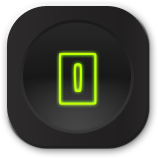
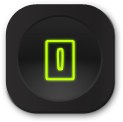
resize image & change blahblahblah

diff --git a/view/index.html b/view/index.html
@@ -14,22 +14,22 @@
   }
 
   #ball{
-    width: 214px;
-    height: 214px;
-    margin: -107px;
+    width: 164px;
+    height: 164px;
+    margin: -82px;
     background: transparent;
     left: 50%; top: 50%;
     position: absolute;
   }
 
   #stick{
-    width: 45px;   
+    width: 35px;   
     border-top: 0;
     -webkit-transform-origin: 50% 100%;
     height: 0;
     position:absolute;
     bottom: 50%;
-    left: 256.5px ; /* (558-45)/2 */
+    left: 197px ; /* (429-35)/2 */
   }
   #stick .colored{
     width: 100%;
@@ -38,49 +38,49 @@
   }
 
   #stick-slot{
-    left: 382px; top: 52px;
-    width: 558px;
-    height: 558px;
+    left: 310px; top: 38px;
+    width: 429px;
+    height: 429px;
     background: url(images/panel.png);
     position: absolute;
   }
 
   #zoom-slot{
-    width: 158px;
-    height: 558px;
-    left: 130px; top: 52px;
+    width: 122px;
+    height: 428px;
+    left: 120px; top: 38px;
     background: url(images/zoom-bg.png);
     position: absolute;
-
   }
 
   #zoom-slot>div{
     margin: 50px 0;
-    height: 450px;
+    height: 350px;
     position:relative;
   }
-  
+
+
   #zoom-slot .ui-slider-handle{
     display:block;
     position: absolute;
     left: 50%;
-    margin-left: -40px;
-    width: 80px;
-    height: 139px;
-    margin-bottom: -70px;
+    margin-left: -30.5px;
+    width: 61px;
+    height: 106px;
+    margin-bottom: -53px;
     background: url(images/zoom-handle.png);
   }
   
   #presets{
     position:absolute;
-    left: 1016px;
-    top: 52px;
-    width: 158px;
-    height: 558px;
+    left: 801px;
+    top: 38px;
+    width: 123px;
+    height: 429px;
   }
   
   .button1, .button2, .button3{
-    width: 158px; height: 158px;
+    width: 123px; height: 122px;
     position: absolute;
   }
   
@@ -94,7 +94,7 @@
   
   .button2{
     background: url('images/button2.png');
-    top: 50%; margin-top: -79px;
+    top: 50%; margin-top: -61px;
   }
   
   .button2:hover{
@@ -111,22 +111,39 @@
 
   #hsl{
     position:absolute;
-    left: 80px;
-    top: 760px;
-    width: 1130px;
-    height: 155px;
-    background-image: url(images/hsl.png), url(images/hsl.png), url(images/hsl.png);
-    background-position: left center, center center, right center;
-    background-repeat: no-repeat;
+    left: 93px;
+    top: 588px;
+    width: 862px;
   }
   
-  #hsl .scale{
-    margin: 33px 55px;
-    border-top: 2px solid #333;
-    border-left:  2px solid #999;
-    border-right: 2px solid #999;
-    border-bottom: 2px solid #ccc;
-    border-radius: 10px;
+  #hsl>div { /* .h, .s, .l */
+    background: url(images/hsl.png);
+    width: 239px; height: 99px;
+    position: absolute;
+  }
+  #hsl .s{
+    left: 50%;
+    margin-left: -120px;
+  }
+  #hsl .l{
+    right: 0;
+  }
+
+  #hsl>div>div { /* .h>div, .s>div, .l>div */
+    width: 172px;
+    height: 100%;
+    margin: 0 auto;
+    position:relative;
+  }
+
+  #hsl .ui-slider-handle{
+    display:block;
+    position: absolute;
+    top: 15px;
+    margin-left: -17px;
+    width: 34px;
+    height: 75px;
+    background: url(images/hsl-handle.png);
   }
 
 
@@ -152,15 +169,23 @@
   </div>
 
   <div id="hsl">
-  
+    <div class="h">
+      <div></div>
+    </div>
+    <div class="s">
+      <div></div>
+    </div>
+    <div class="l">
+      <div></div>
+    </div>
   </div>
   
   <script type="text/javascript">
     
     var $stick = $('#stick'), $ball = $('#ball'), $hsl = $('#hsl'),
-      RADIUS = 200, ORIGIN = {left: 279, top: 279}, BALLSIZE = 214,
-      //SOCKET_TARGET = 'ws://echo.websocket.org',
-      SOCKET_TARGET = 'ws://localhost:9999/',
+      RADIUS = 160, ORIGIN = {left: 214, top: 214}, BALLSIZE = 164,
+      SOCKET_TARGET = 'ws://echo.websocket.org',
+      //SOCKET_TARGET = 'ws://localhost:9999/',
       HORIZONTAL_STEPSIZE = RADIUS/2, VERTICAL_STEPSIZE = RADIUS / 2;
 
     Number.prototype.to_deg = function(){
@@ -184,7 +209,7 @@
         if($ball.position().left !== ORIGIN.left || $ball.position().top !== ORIGIN.top ) {
           var dx = Math.ceil($ball.x / HORIZONTAL_STEPSIZE - 0.5),
               dy = Math.ceil($ball.y / VERTICAL_STEPSIZE - 0.5);
-          ws.send("offset " + dx + " " + dy);
+          ws.send("OFFSET " + dx + " " + dy);
         }
       }
       
@@ -193,23 +218,25 @@
     
     // zoom slider
     var send_zoom = function(e, ui){
-      ws.send(ui.value);
+      ws.send('ZOOM ' + ui.value);
     };
     // presets
     var preset1 = function(){
-      ws.send("abs 0000 0000");
+      ws.send("ABS 0000 0000");
     }, 
         preset2 = function(){
-      ws.send("abs 0900 0000");
+      ws.send("ABS 0900 0000");
     },
         preset3 = function(){
-      ws.send("abs 0000 0485");
+      ws.send("ABS 0000 0485");
     };
     
     // hsl
-    var send_hsl = function(){
+    var send_hsl = function(e, ui){
+      var comp = $(this).parent().attr('class').toUpperCase();
+      ws.send(comp + ' ' + ui.value);
       //console.log($hsl.hslLiteColorPicker('hsl'));
-      ws.send("hsl " + $hsl.hslLiteColorPicker('hsl').join(' '));
+//      ws.send("hsl " + $hsl.hslLiteColorPicker('hsl').join(' '));
     }
     
     
@@ -265,10 +292,9 @@
 
     $('#zoom-slot>div').slider({
       orientation: "vertical",
-      min: 0.5,
-      max: 1.5,
-      step: 0.05,
-      value: 1,
+      min: 1,
+      max: 3,
+      value: 2,
       slide: send_zoom
     });
   
@@ -276,12 +302,14 @@
     $('.button2').click(preset2);
     $('.button3').click(preset3);
     
-    $hsl.hslLiteColorPicker({onChange: send_hsl, hsl:[360, 0, 100]});
+    $hsl.find('.h>div, .s>div, .l>div').slider({
+      orientation: "horizontal",
+      min: -50,
+      max: 50,
+      value: 0,
+      slide: send_hsl 
+    });
 
-    // styling hsl
-    $hsl.find('.scale').css({position: 'absolute', height: '50px'});
-    $hsl.find('.scale.s').css({left: '50%', marginLeft: '-100px' });
-    $hsl.find('.scale.l').css({right: '0'});
     
     
   </script>
